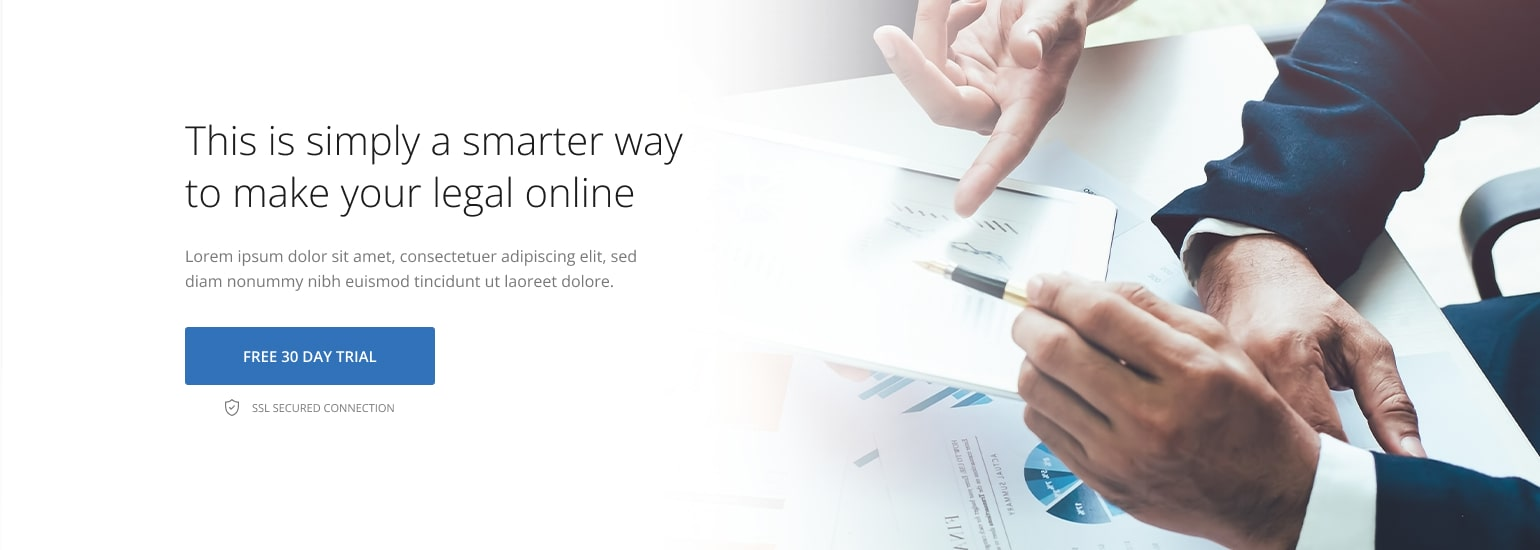
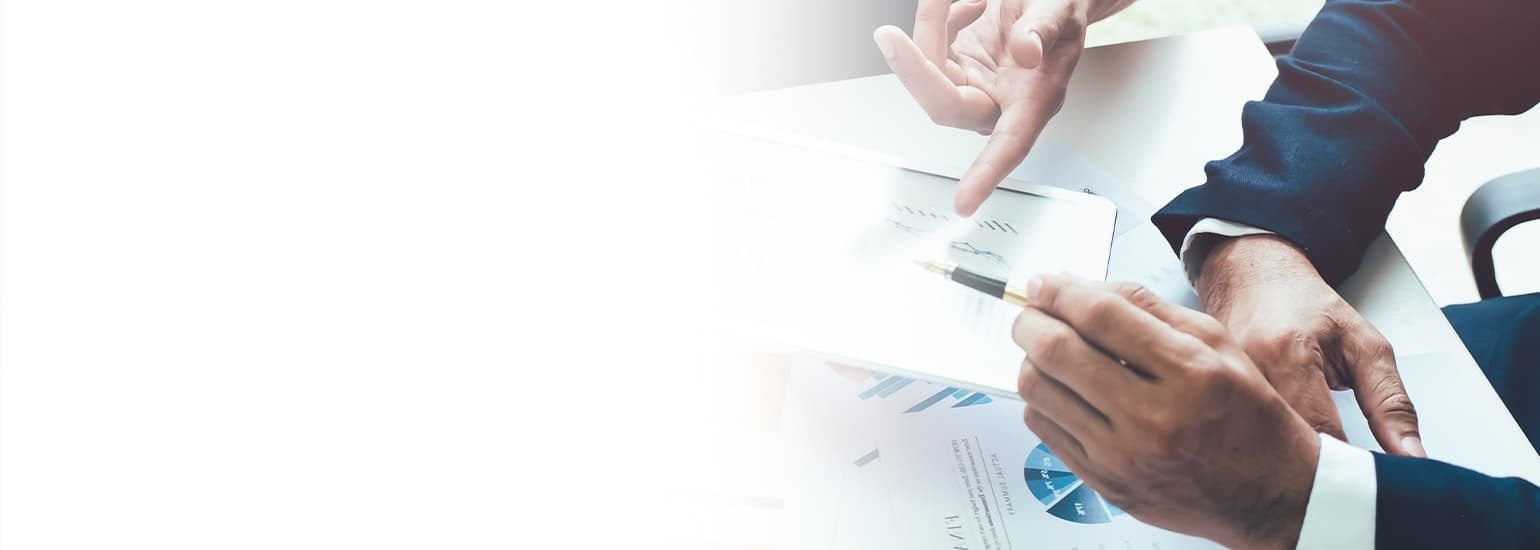
add style hero

diff --git a/css/main.css b/css/main.css
@@ -85,6 +85,7 @@ ul {
 
 .header__nav-list {
   display: flex;
+  align-items: center;
 }
 
 .header__nav-item:not(:last-child) {
@@ -98,7 +99,7 @@ ul {
 
 .header__btn {
   margin-left: 52px;
-  padding: 35px 15px;
+  padding: 15px 35px;
   width: 150px;
   font-size: 15px;
   font-weight: 600;
@@ -108,6 +109,13 @@ ul {
 
 .hero {
   padding: 100px;
+  background-image: url("../assets/img/hero-bg@1x.jpg");
+  @media (min-resolution: 2dppx) {
+    background-image: url("../assets/img/hero-bg@2x.jpg");
+  }
+  background-repeat: no-repeat;
+  background-position: center;
+  background-size: cover;
 }
 
 .hero__content {
